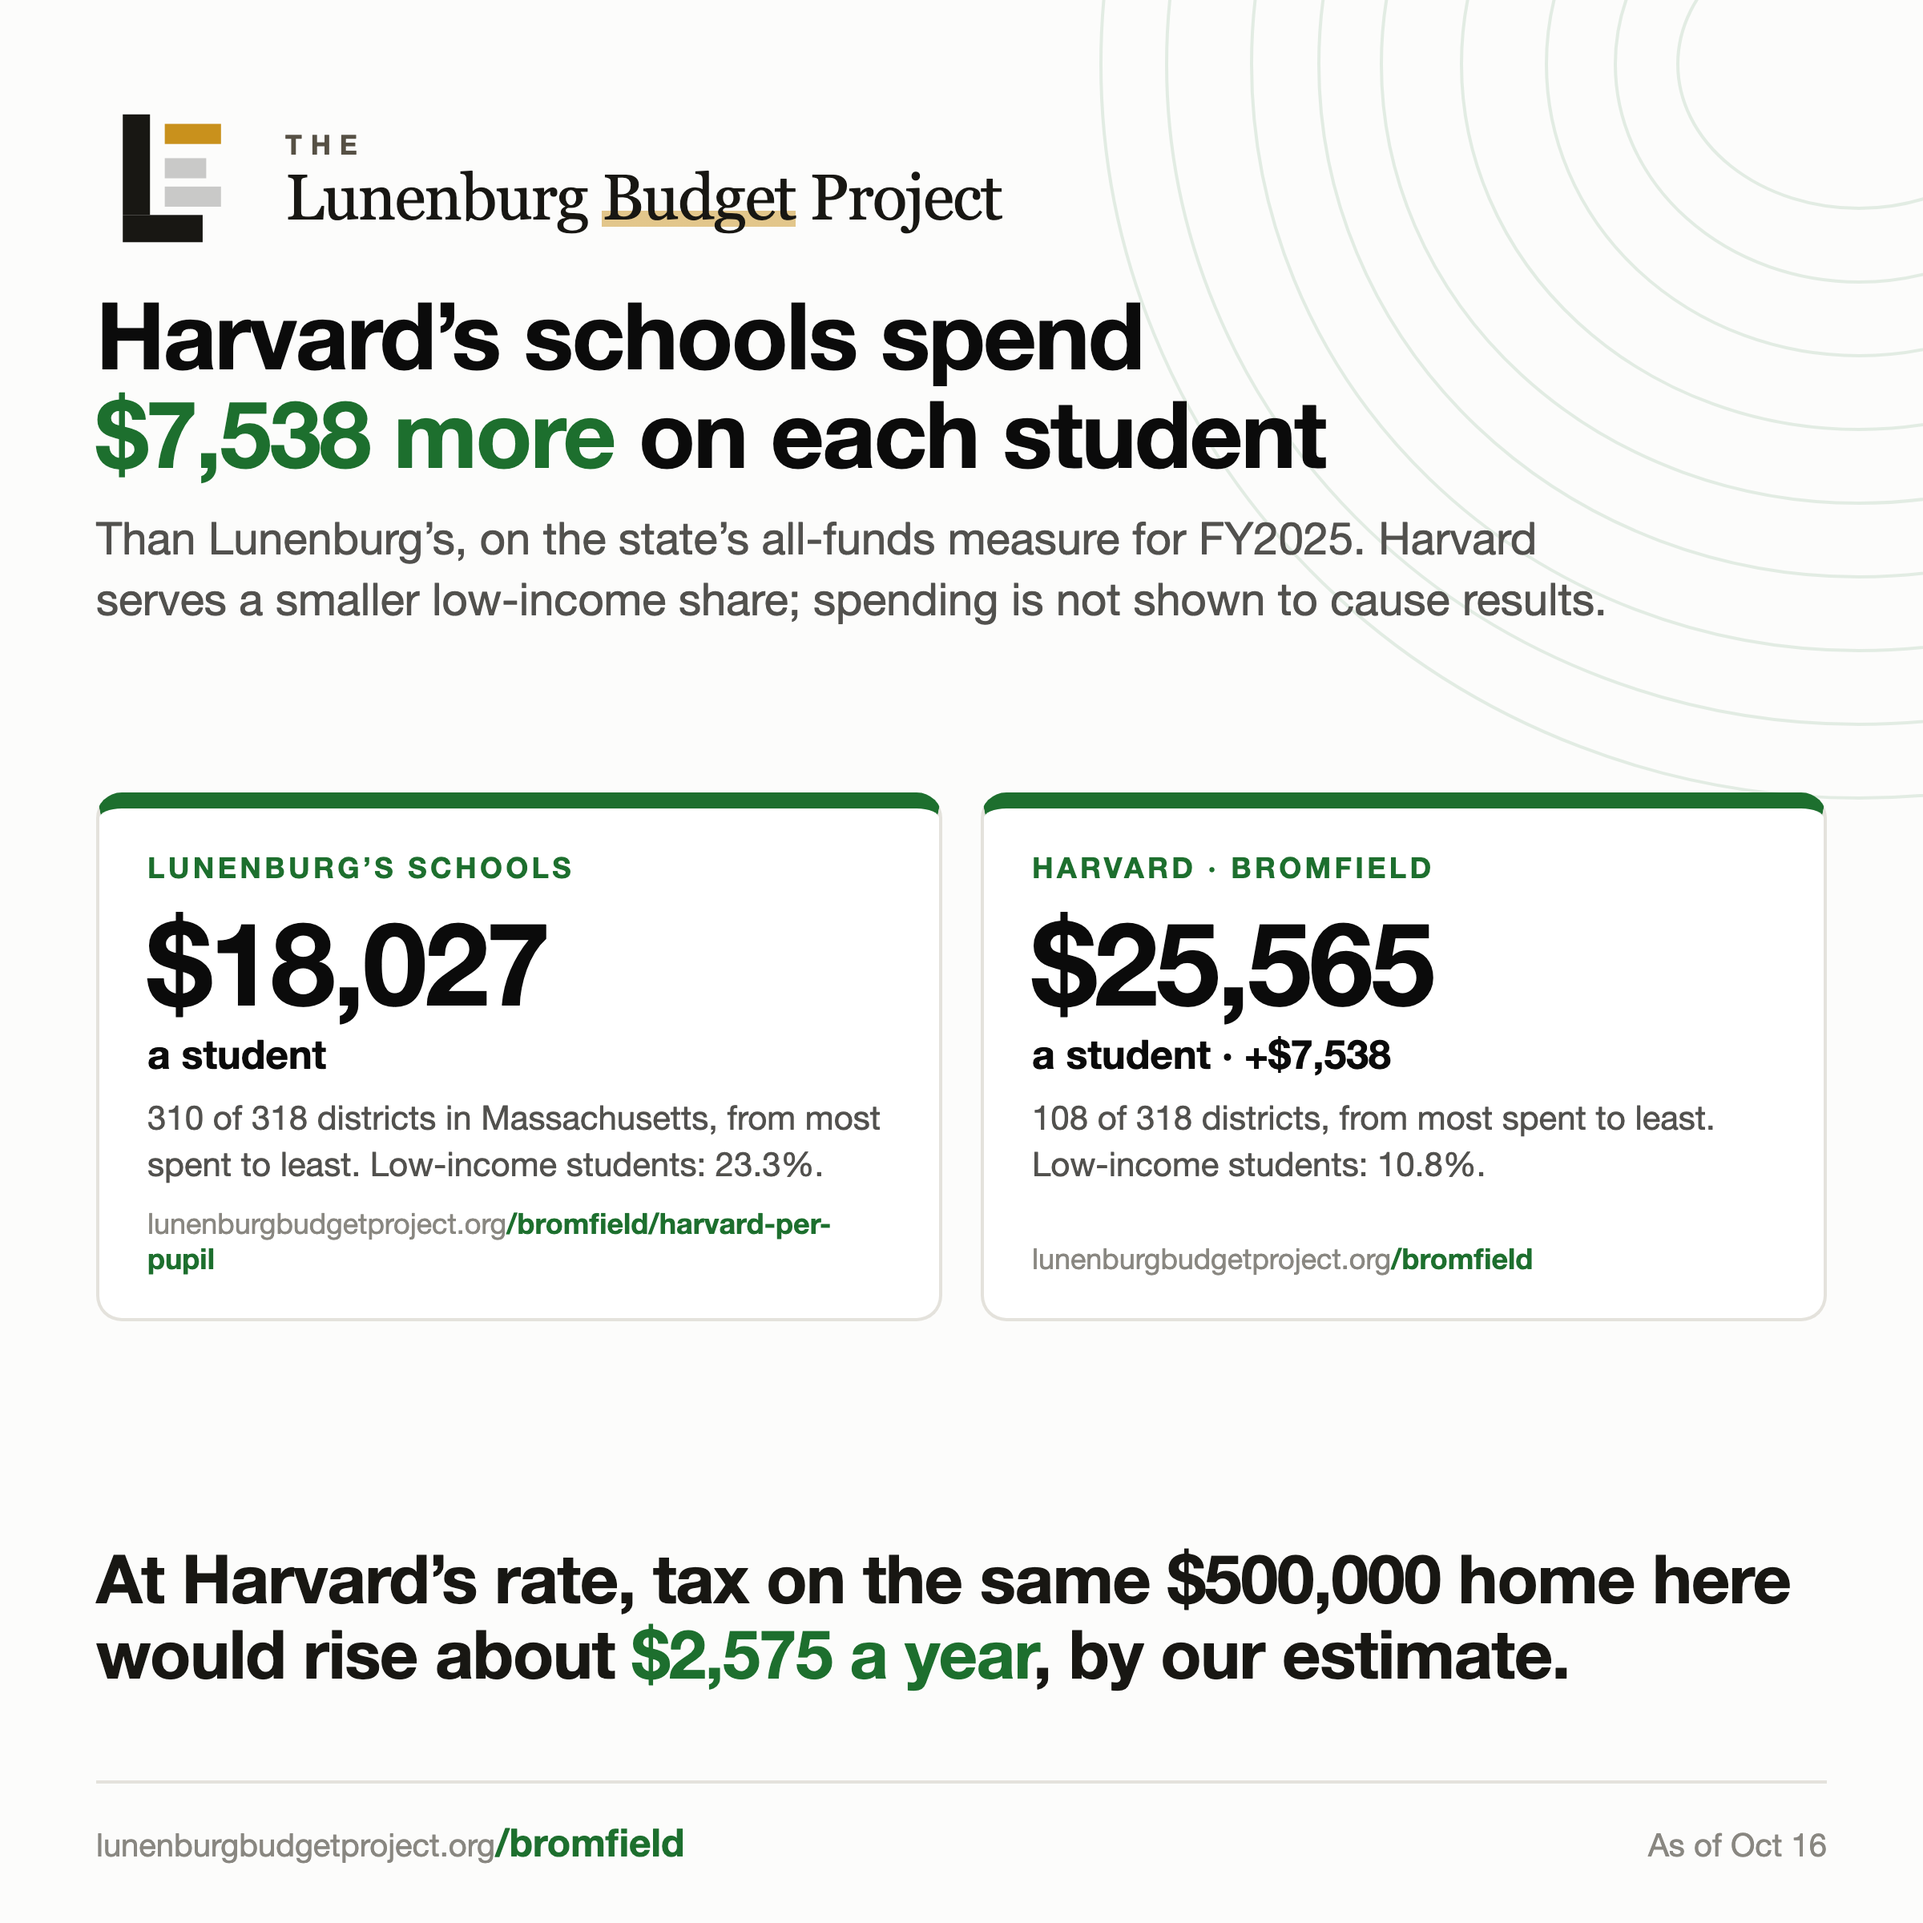
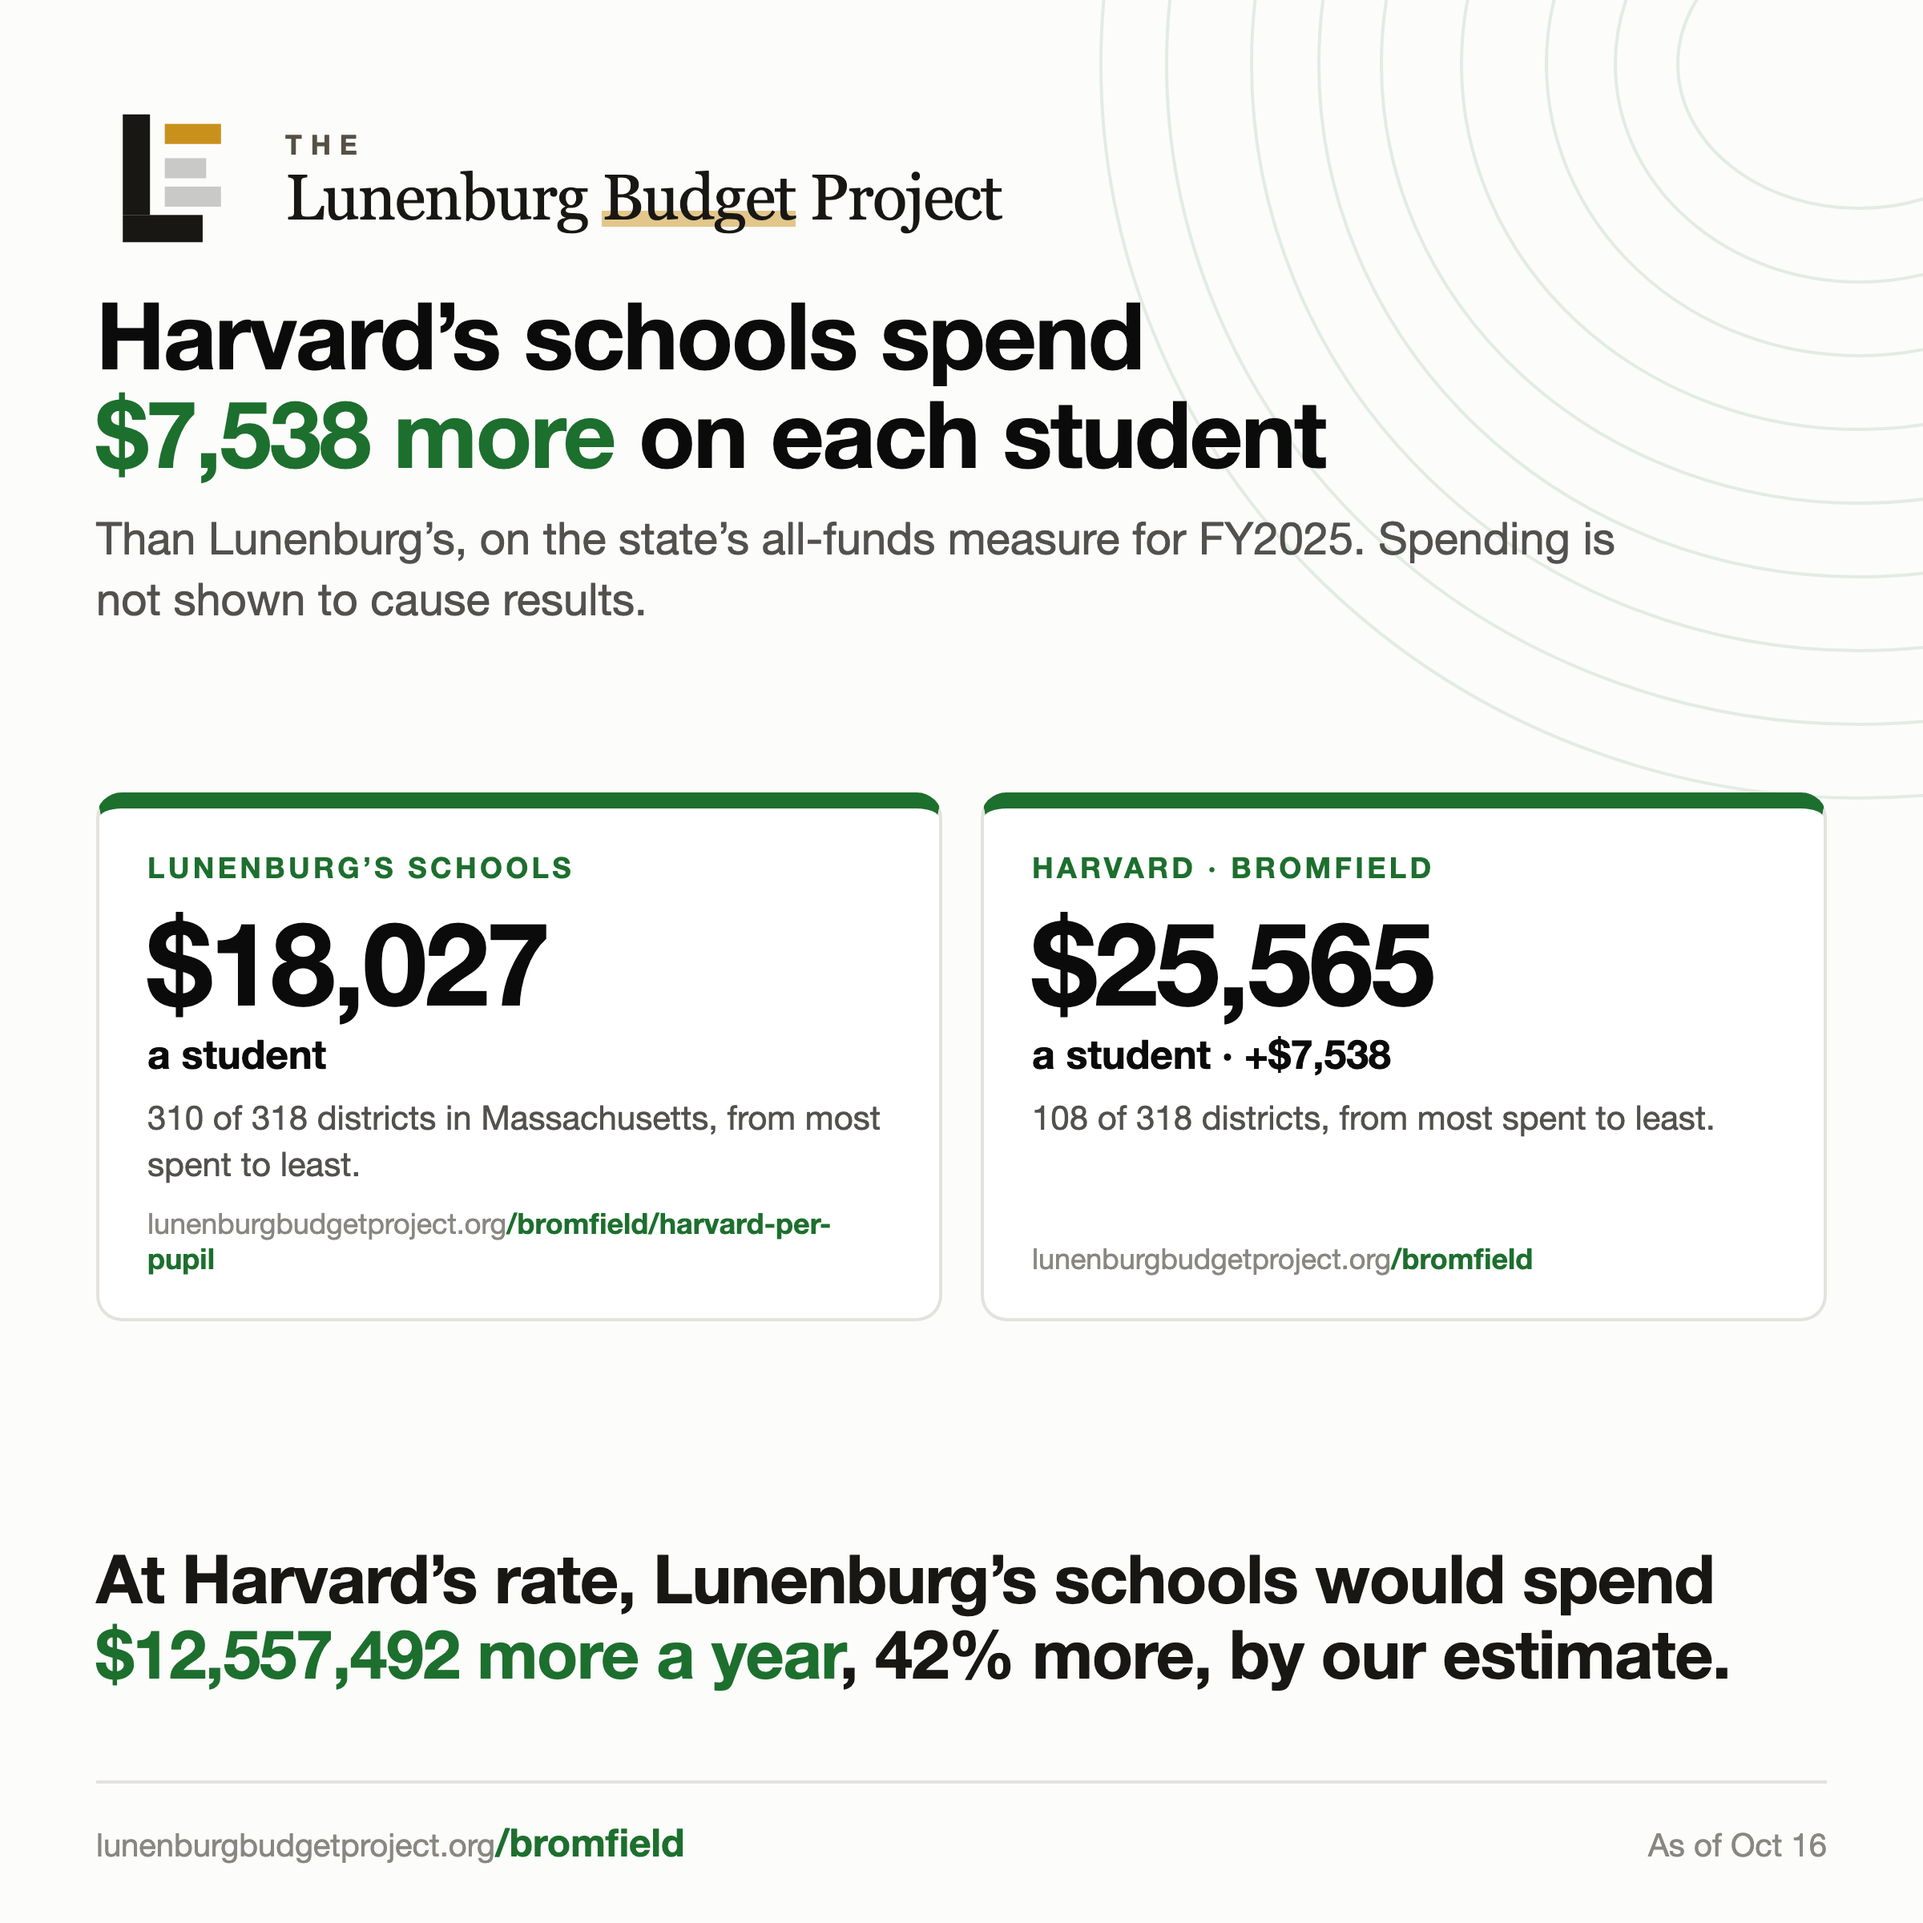
Bromfield post: the school spending increase, not a tax bill; no low-income line
TJ: "i meant, the increase to lunenburgs total school budget" and "remove
the low income line too". The closing line is now the increase at Harvard's
rate on DESE's own all-funds total (+$12,557,492, 42% more, ours); the
table on the scenario page carries the share. The cards and subtitle drop
the low-income figures; the post text keeps the population caveat.

Claude-Session: https://claude.ai/code/session_014fdUitnBS7xxmQNfQ1GHBV

diff --git a/social/posts/2026-10-15-bromfield/image.html b/social/posts/2026-10-15-bromfield/image.html
@@ -56,8 +56,8 @@ h1 em{font-style:normal;color:#1d6f2e}
 <div class="frame">
 <div class="logo"><svg class="lm" viewBox="4 3 26 26"><rect x="8.5" y="5" width="4.6" height="17" fill="#181713"/><rect x="8.5" y="22" width="13.5" height="4.6" fill="#181713"/><rect x="15.6" y="6.6" width="9.5" height="3.4" fill="#c9911c"/><rect x="15.6" y="12.4" width="7" height="3.4" fill="#181713" opacity=".22"/><rect x="15.6" y="17.2" width="9.5" height="3.4" fill="#181713" opacity=".22"/></svg><div class="lw"><div class="lt">The</div><div class="ln" style="font-family:Georgia, &quot;Iowan Old Style&quot;, &quot;Times New Roman&quot;, serif">Lunenburg <span class="lhl">Budget</span> Project</div></div></div>
 <h1>Harvard’s schools spend <em>$7,538 more</em> on each student</h1>
-<p class="sub">Than Lunenburg’s, on the state’s all-funds measure for FY2025. Harvard serves a smaller low-income share; spending is not shown to cause results.</p>
-<div class="body"><div class="tiles" style="grid-template-columns:repeat(2,1fr)"><div class="t"><div class="te">LUNENBURG’S SCHOOLS</div><div class="tn">$18,027</div><div class="tu">a student</div><div class="td">310 of 318 districts in Massachusetts, from most spent to least. Low-income students: 23.3%.</div><div class="tp">lunenburgbudgetproject.org<b>/bromfield/harvard-per-pupil</b></div></div><div class="t"><div class="te">HARVARD · BROMFIELD</div><div class="tn">$25,565</div><div class="tu">a student · +$7,538</div><div class="td">108 of 318 districts, from most spent to least. Low-income students: 10.8%.</div><div class="tp">lunenburgbudgetproject.org<b>/bromfield</b></div></div></div></div>
-<p class="concl">At Harvard’s rate, tax on the same $500,000 home here would rise about <em>$2,575 a year</em>, by our estimate.</p>
+<p class="sub">Than Lunenburg’s, on the state’s all-funds measure for FY2025. Spending is not shown to cause results.</p>
+<div class="body"><div class="tiles" style="grid-template-columns:repeat(2,1fr)"><div class="t"><div class="te">LUNENBURG’S SCHOOLS</div><div class="tn">$18,027</div><div class="tu">a student</div><div class="td">310 of 318 districts in Massachusetts, from most spent to least.</div><div class="tp">lunenburgbudgetproject.org<b>/bromfield/harvard-per-pupil</b></div></div><div class="t"><div class="te">HARVARD · BROMFIELD</div><div class="tn">$25,565</div><div class="tu">a student · +$7,538</div><div class="td">108 of 318 districts, from most spent to least.</div><div class="tp">lunenburgbudgetproject.org<b>/bromfield</b></div></div></div></div>
+<p class="concl">At Harvard’s rate, Lunenburg’s schools would spend <em>$12,557,492 more a year</em>, 42% more, by our estimate.</p>
 <div class="foot"><span>lunenburgbudgetproject.org<b>/bromfield</b></span><span>As of Oct 16</span></div>
 </div></body></html>

diff --git a/scripts/build_bromfield_topics.py b/scripts/build_bromfield_topics.py
@@ -297,6 +297,7 @@ def build():
                                 hv['std']['value']['value'])
     tax_rows = [(lab, [fmt(more), fmt(mores)]) for lab, fmt in (
         ('More than spent, a year (ours)', C.usd),
+        ('More than Lunenburg’s schools spent, all funds (ours)', lambda v: C.pct(100 * v / lb['total'], 0)),
         ('As a share of the FY2026 tax levy (ours)', lambda v: C.pct(100 * v / levy, 1)),
         ('Added to the tax on the same $500,000 home (ours)', lambda v: C.usd(std_bill * v / levy)),
         ('Added to the average single-family bill (ours)', lambda v: C.usd(avg_bill * v / levy)))]
@@ -364,7 +365,7 @@ def build():
                  note='Ours: DESE’s rate a pupil times Lunenburg’s %s FTE pupils. The '
                       'all-district line is the one on Reaching the state median.'
                       % PU(pl)['text']),
-            dict(key='tax', label='In tax terms', columns=['At Harvard’s rate', 'At the state median'],
+            dict(key='tax', label='In budget and tax terms', columns=['At Harvard’s rate', 'At the state median'],
                  kinds=['ledger'] * 2, rows=[dict(label=l, cells=c) for l, c in tax_rows],
                  note='Ours, and a scenario, not a proposal: as if the whole difference were raised '
                       'from the property tax, spread in proportion over the FY2026 levy, so every '
